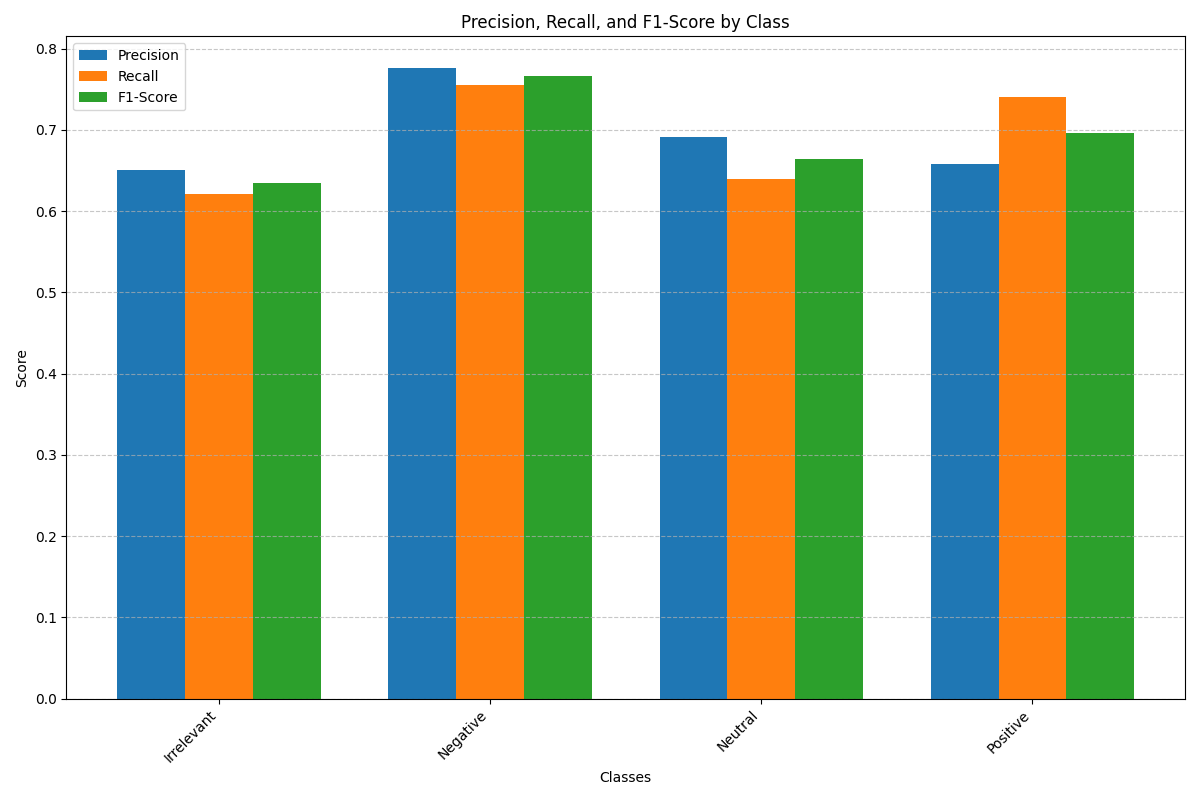
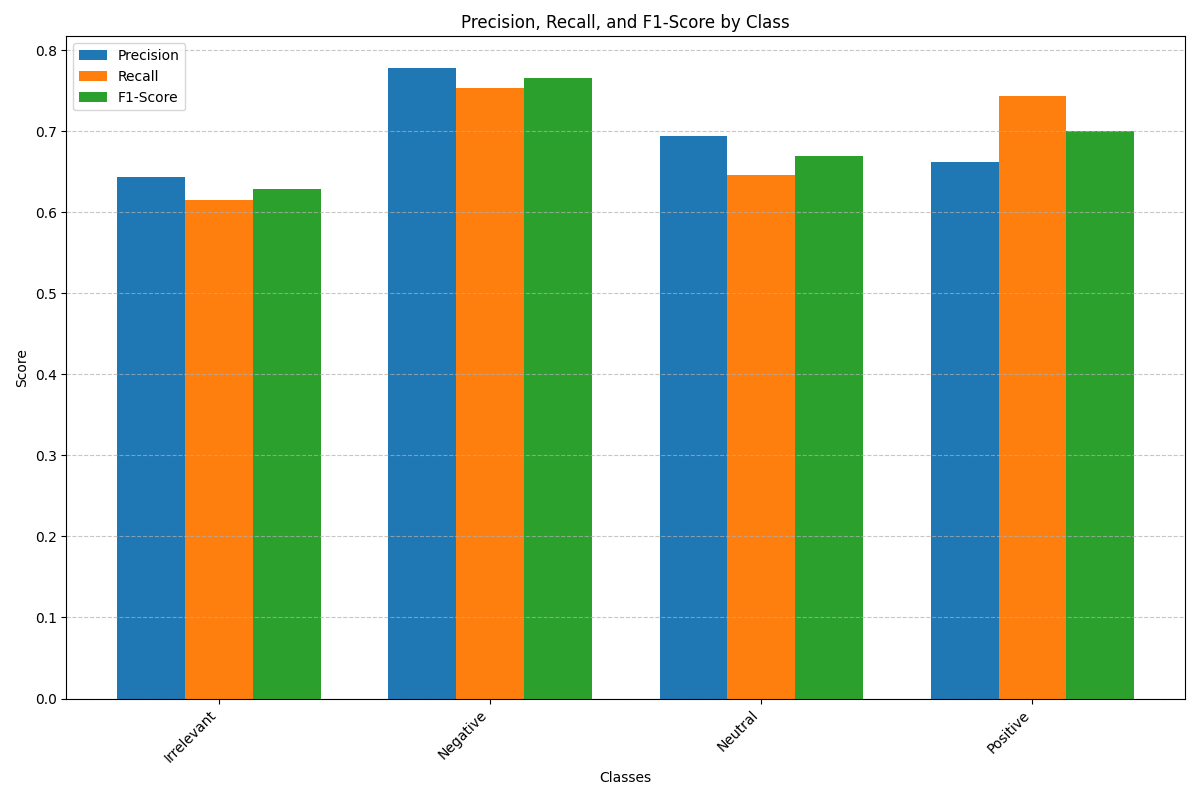
feat(nlp): add stemming & lemmatization$

diff --git a/nlp/main.py b/nlp/main.py
@@ -13,6 +13,16 @@ from sklearn.model_selection import train_test_split, GridSearchCV
 from sklearn.feature_extraction.text import TfidfVectorizer
 from sklearn.linear_model import LogisticRegression
 from sklearn.metrics import classification_report, accuracy_score, confusion_matrix
+import nltk
+from nltk.stem import WordNetLemmatizer, PorterStemmer
+from nltk.tokenize import word_tokenize
+from nltk.corpus import stopwords
+
+# Download necessary NLTK resources
+nltk.download('punkt', quiet=True)
+nltk.download('punkt_tab', quiet=True)
+nltk.download('wordnet', quiet=True)
+nltk.download('stopwords', quiet=True)
 
 DATASET_ID = "jp797498e/twitter-entity-sentiment-analysis"
 TEST_SIZE = 0.2
@@ -103,19 +113,42 @@ def preprocess_data(data):
     return data.fillna("")
 
 
-def clean_text(text):
-    """Clean text using regex patterns."""
+def clean_text(text, use_stemming=True, use_lemmatization=True):
+    """Clean text using regex patterns and apply stemming and/or lemmatization."""
     text = str(text).lower()
     text = re.sub(r'[^a-z\s!?.,]', '', text)
     text = re.sub(r'([!?])\1+', r'\1', text)
+    
+    tokens = word_tokenize(text)
+    
+    stemmer = PorterStemmer()
+    lemmatizer = WordNetLemmatizer()
+    
+    processed_tokens = []
+    for token in tokens:
+        if use_stemming:
+            token = stemmer.stem(token)
+            
+        if use_lemmatization:
+            token = lemmatizer.lemmatize(token)
+            
+        processed_tokens.append(token)
+    
+    text = ' '.join(processed_tokens)
     text = ' '.join(text.split())
+    
     return text
 
 
-def apply_text_preprocessing(data, text_col):
+def apply_text_preprocessing(data, text_col, use_stemming=True, use_lemmatization=True):
     """Apply text preprocessing to the dataset."""
     print("\nApplying text preprocessing...")
-    data['processed_text'] = data[text_col].apply(clean_text)
+    print(f"Using stemming: {use_stemming}")
+    print(f"Using lemmatization: {use_lemmatization}")
+    
+    data['processed_text'] = data[text_col].apply(
+        lambda x: clean_text(x, use_stemming=use_stemming, use_lemmatization=use_lemmatization)
+    )
     print("Text preprocessing completed")
     return data
 
@@ -353,7 +386,12 @@ def main():
     
     clean_data = preprocess_data(data)
     
-    processed_data = apply_text_preprocessing(clean_data, text_col)
+    processed_data = apply_text_preprocessing(
+        clean_data, 
+        text_col,
+        use_stemming=False,
+        use_lemmatization=True
+    )
     
     y_labels = processed_data[sentiment_col].tolist()
     y_ids, label_map = map_labels_to_ids(y_labels)
